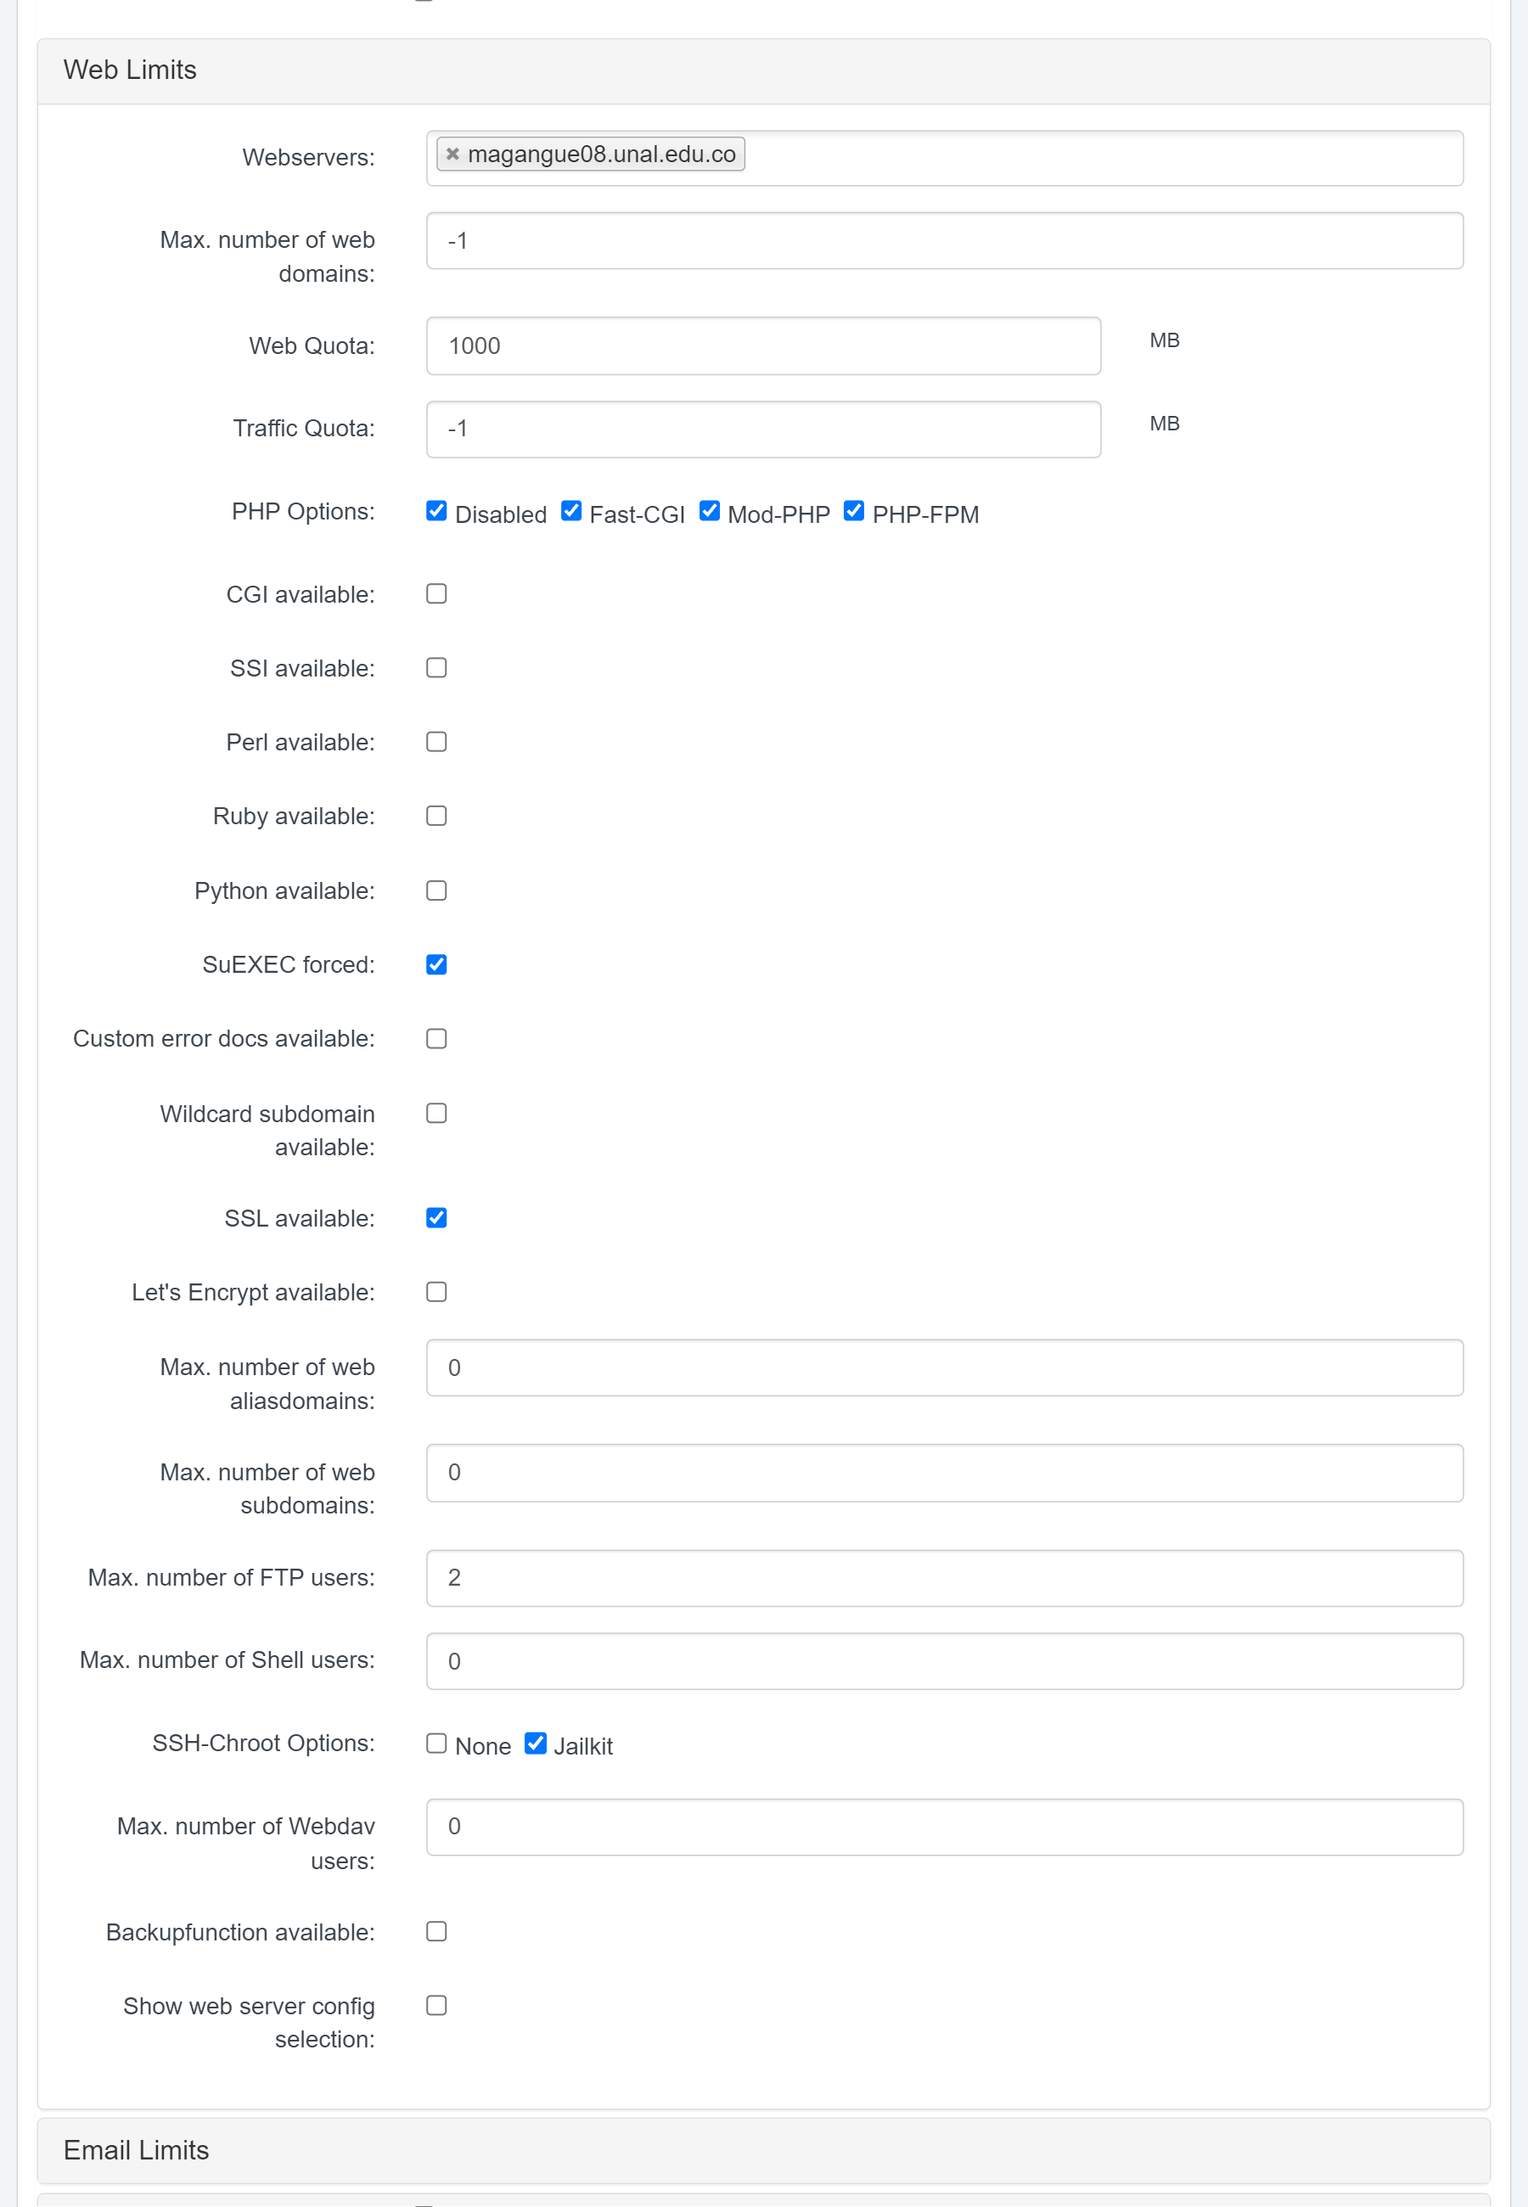
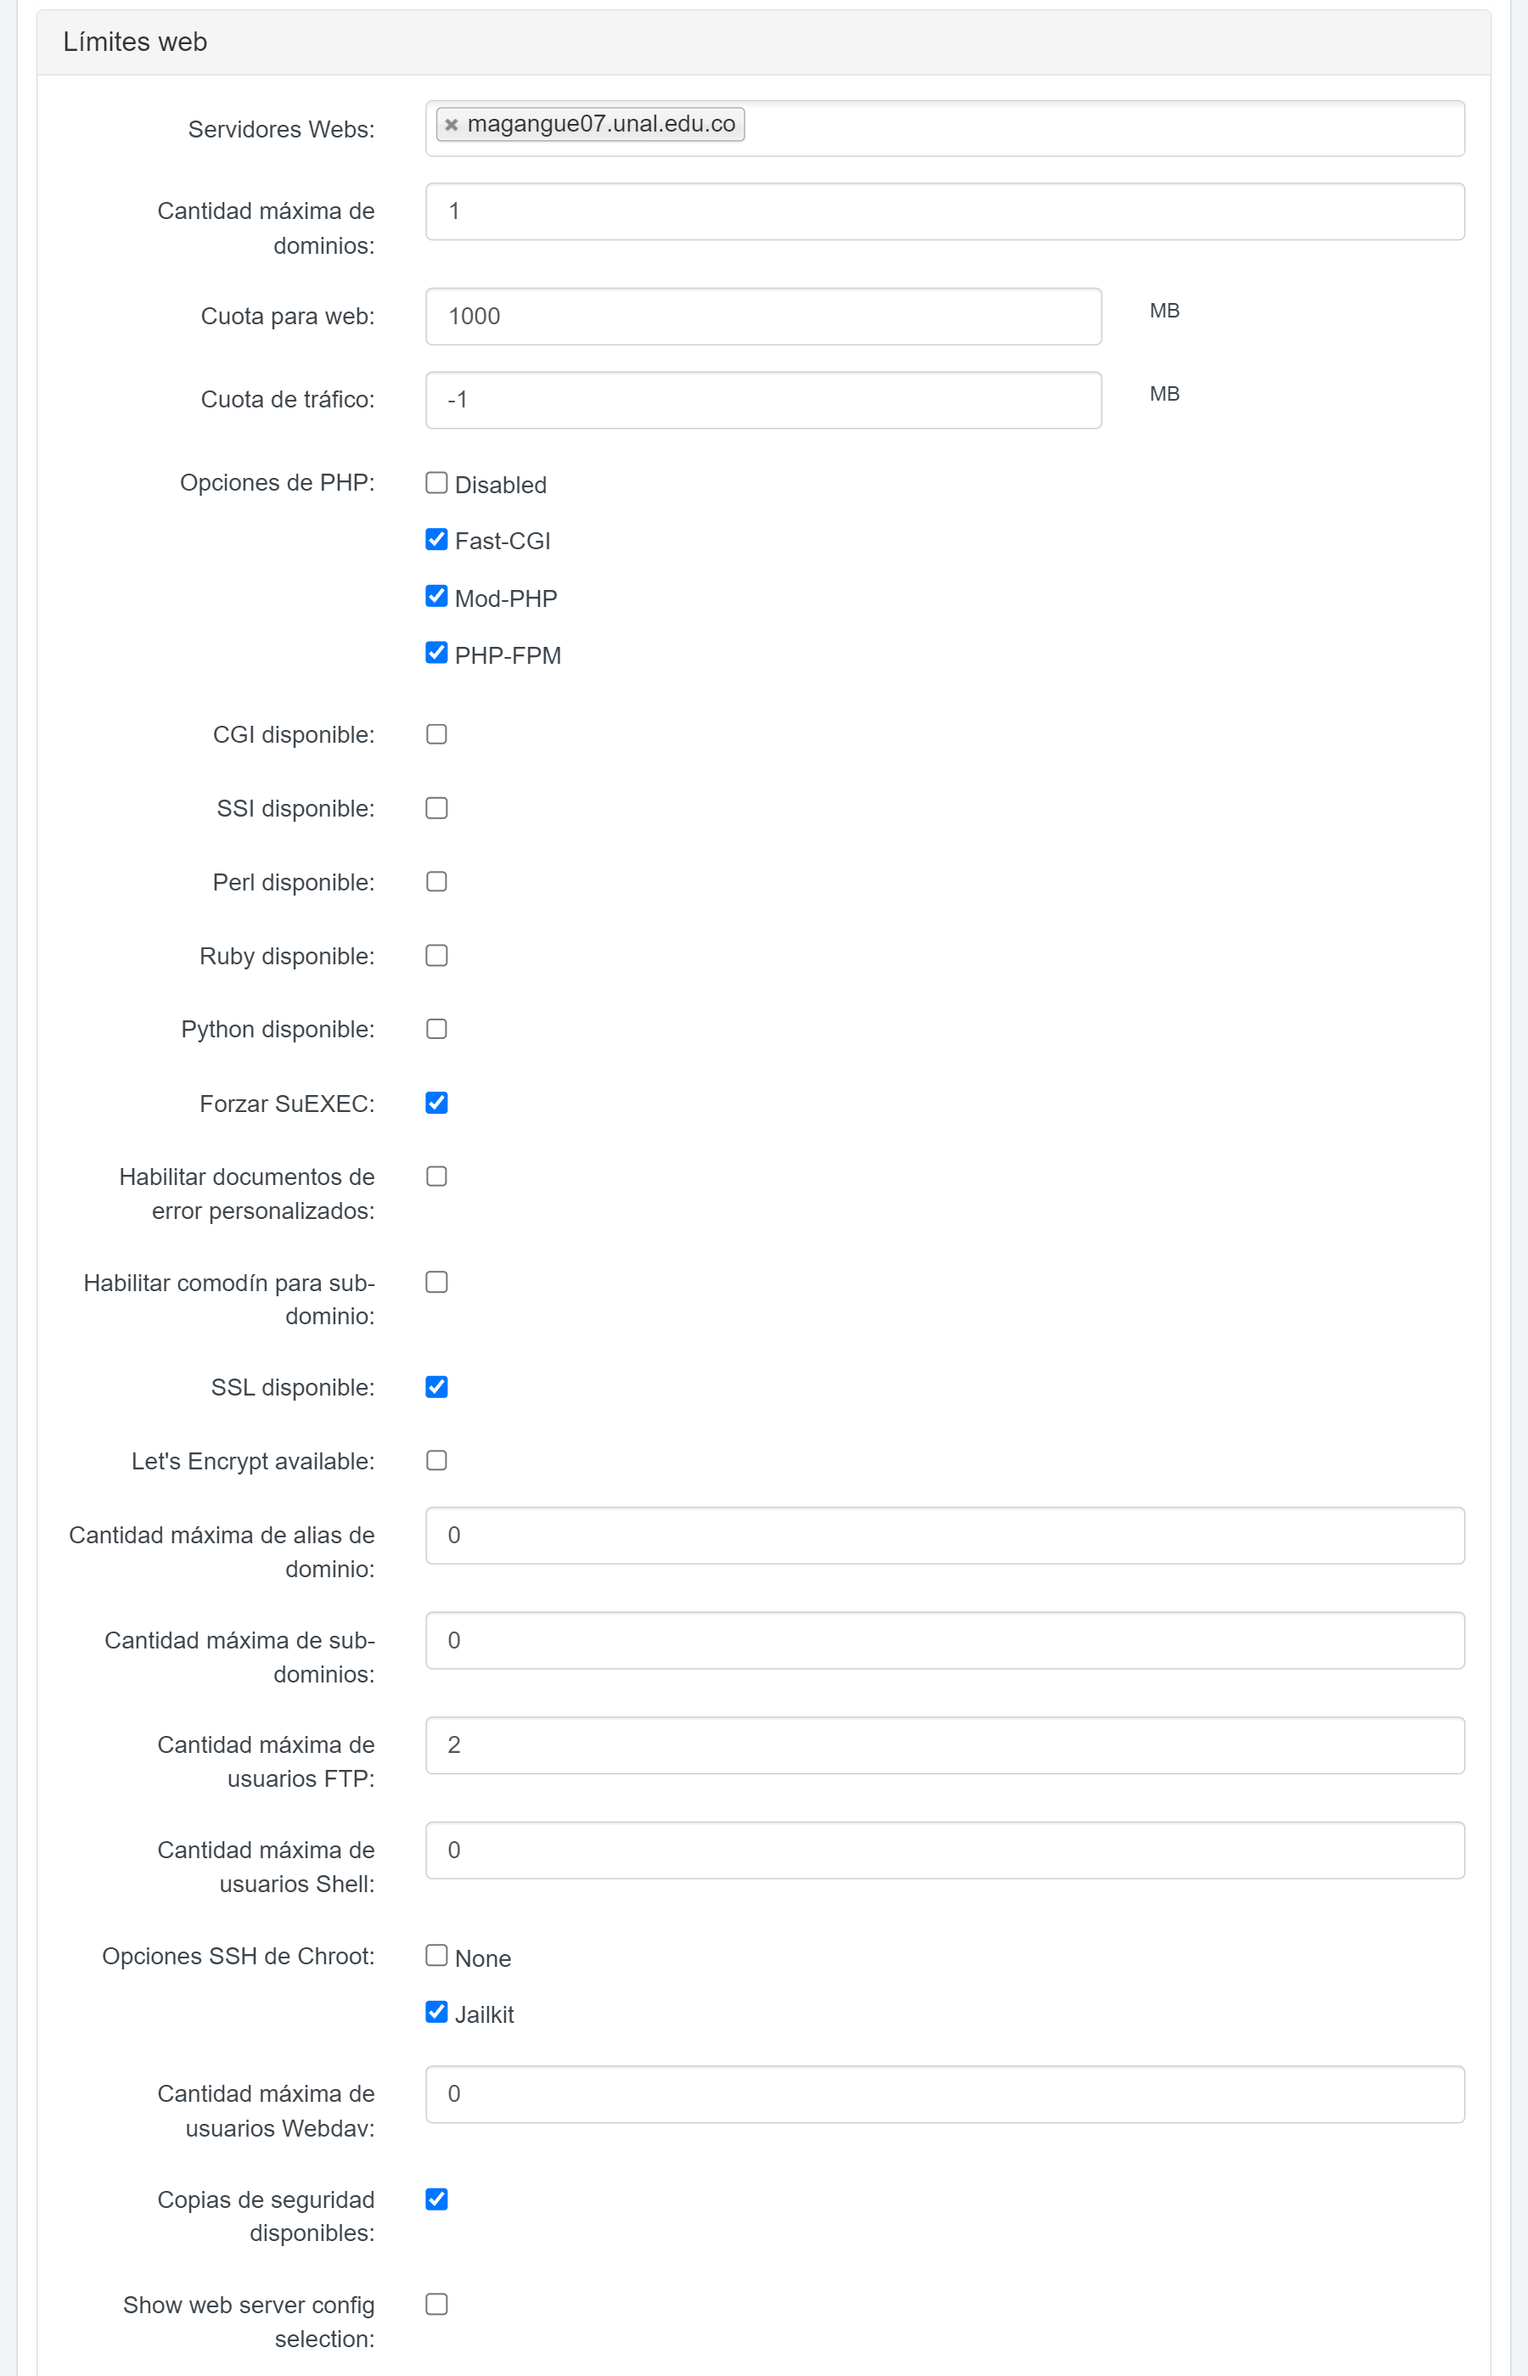
Add files via upload

diff --git a/01_Crear_un_cliente_en ispconfig/Crear_cliente_en_ispconfig.md b/01_Crear_un_cliente_en ispconfig/Crear_cliente_en_ispconfig.md
@@ -40,10 +40,10 @@ En el apartado de web limits seleccionamos
 - Max. number of web domains 1
 - Web Quota 1000 MB
 - PHP
-   	- [ ] Disabled
-   	- [x] Fast-CGI
-   	- [x] Mod-PHP
-	- [x] PHP-FPM
+	 - [ ] Disabled  
+	 - [x] Fast-CGI
+	 - [x] Mod-PHP
+	 - [x] PHP-FPM
 - SuEXEC forced
 - SSL available
 - Max. number of web aliasdomains lo ponemos en 0
@@ -53,7 +53,7 @@ En el apartado de web limits seleccionamos
 - SSH-Chroot Options
 	- [ ] None
 	- [x] Jailkit
-- Backupfunction available: lo dejamos desmarcado si no queremos que el cliente pueda hacer backups, encaso de lo contrario lo marcamos.s 
+- Backupfunction available: lo dejamos desmarcado si no queremos que el cliente pueda hacer backups, encaso de lo contrario lo marcamos.
 
 ![](assets/04_web_limits.png)
 
